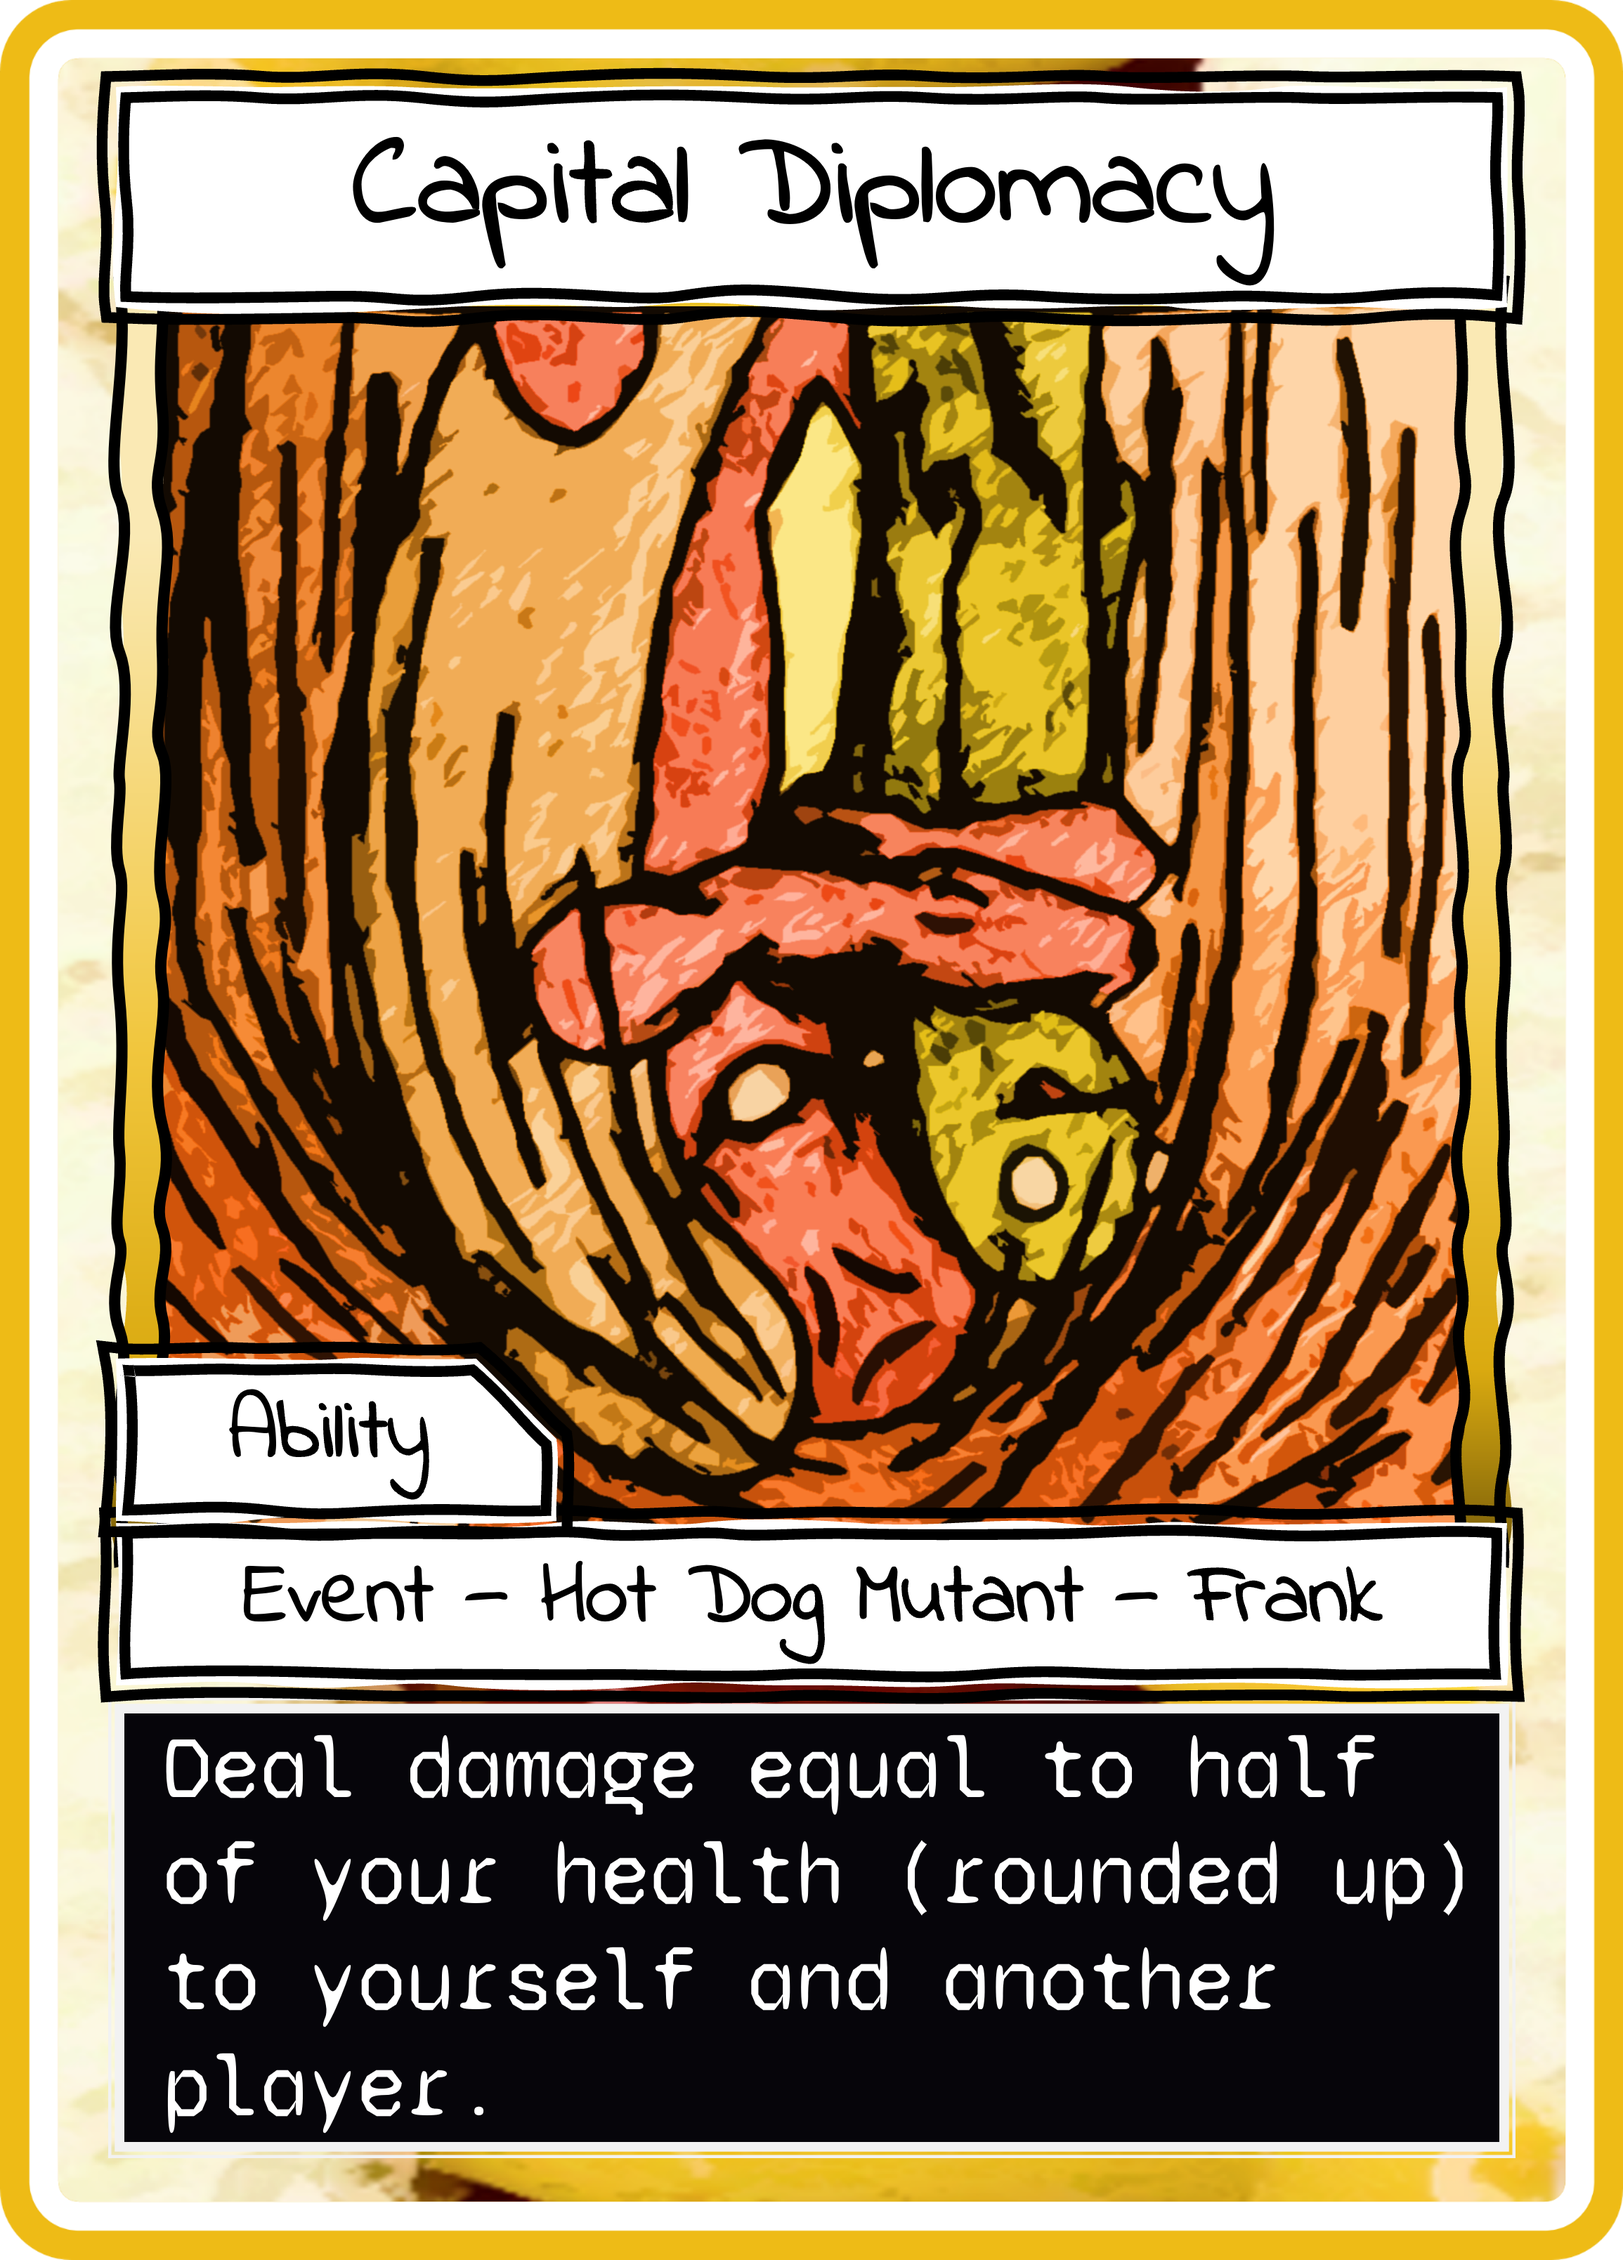
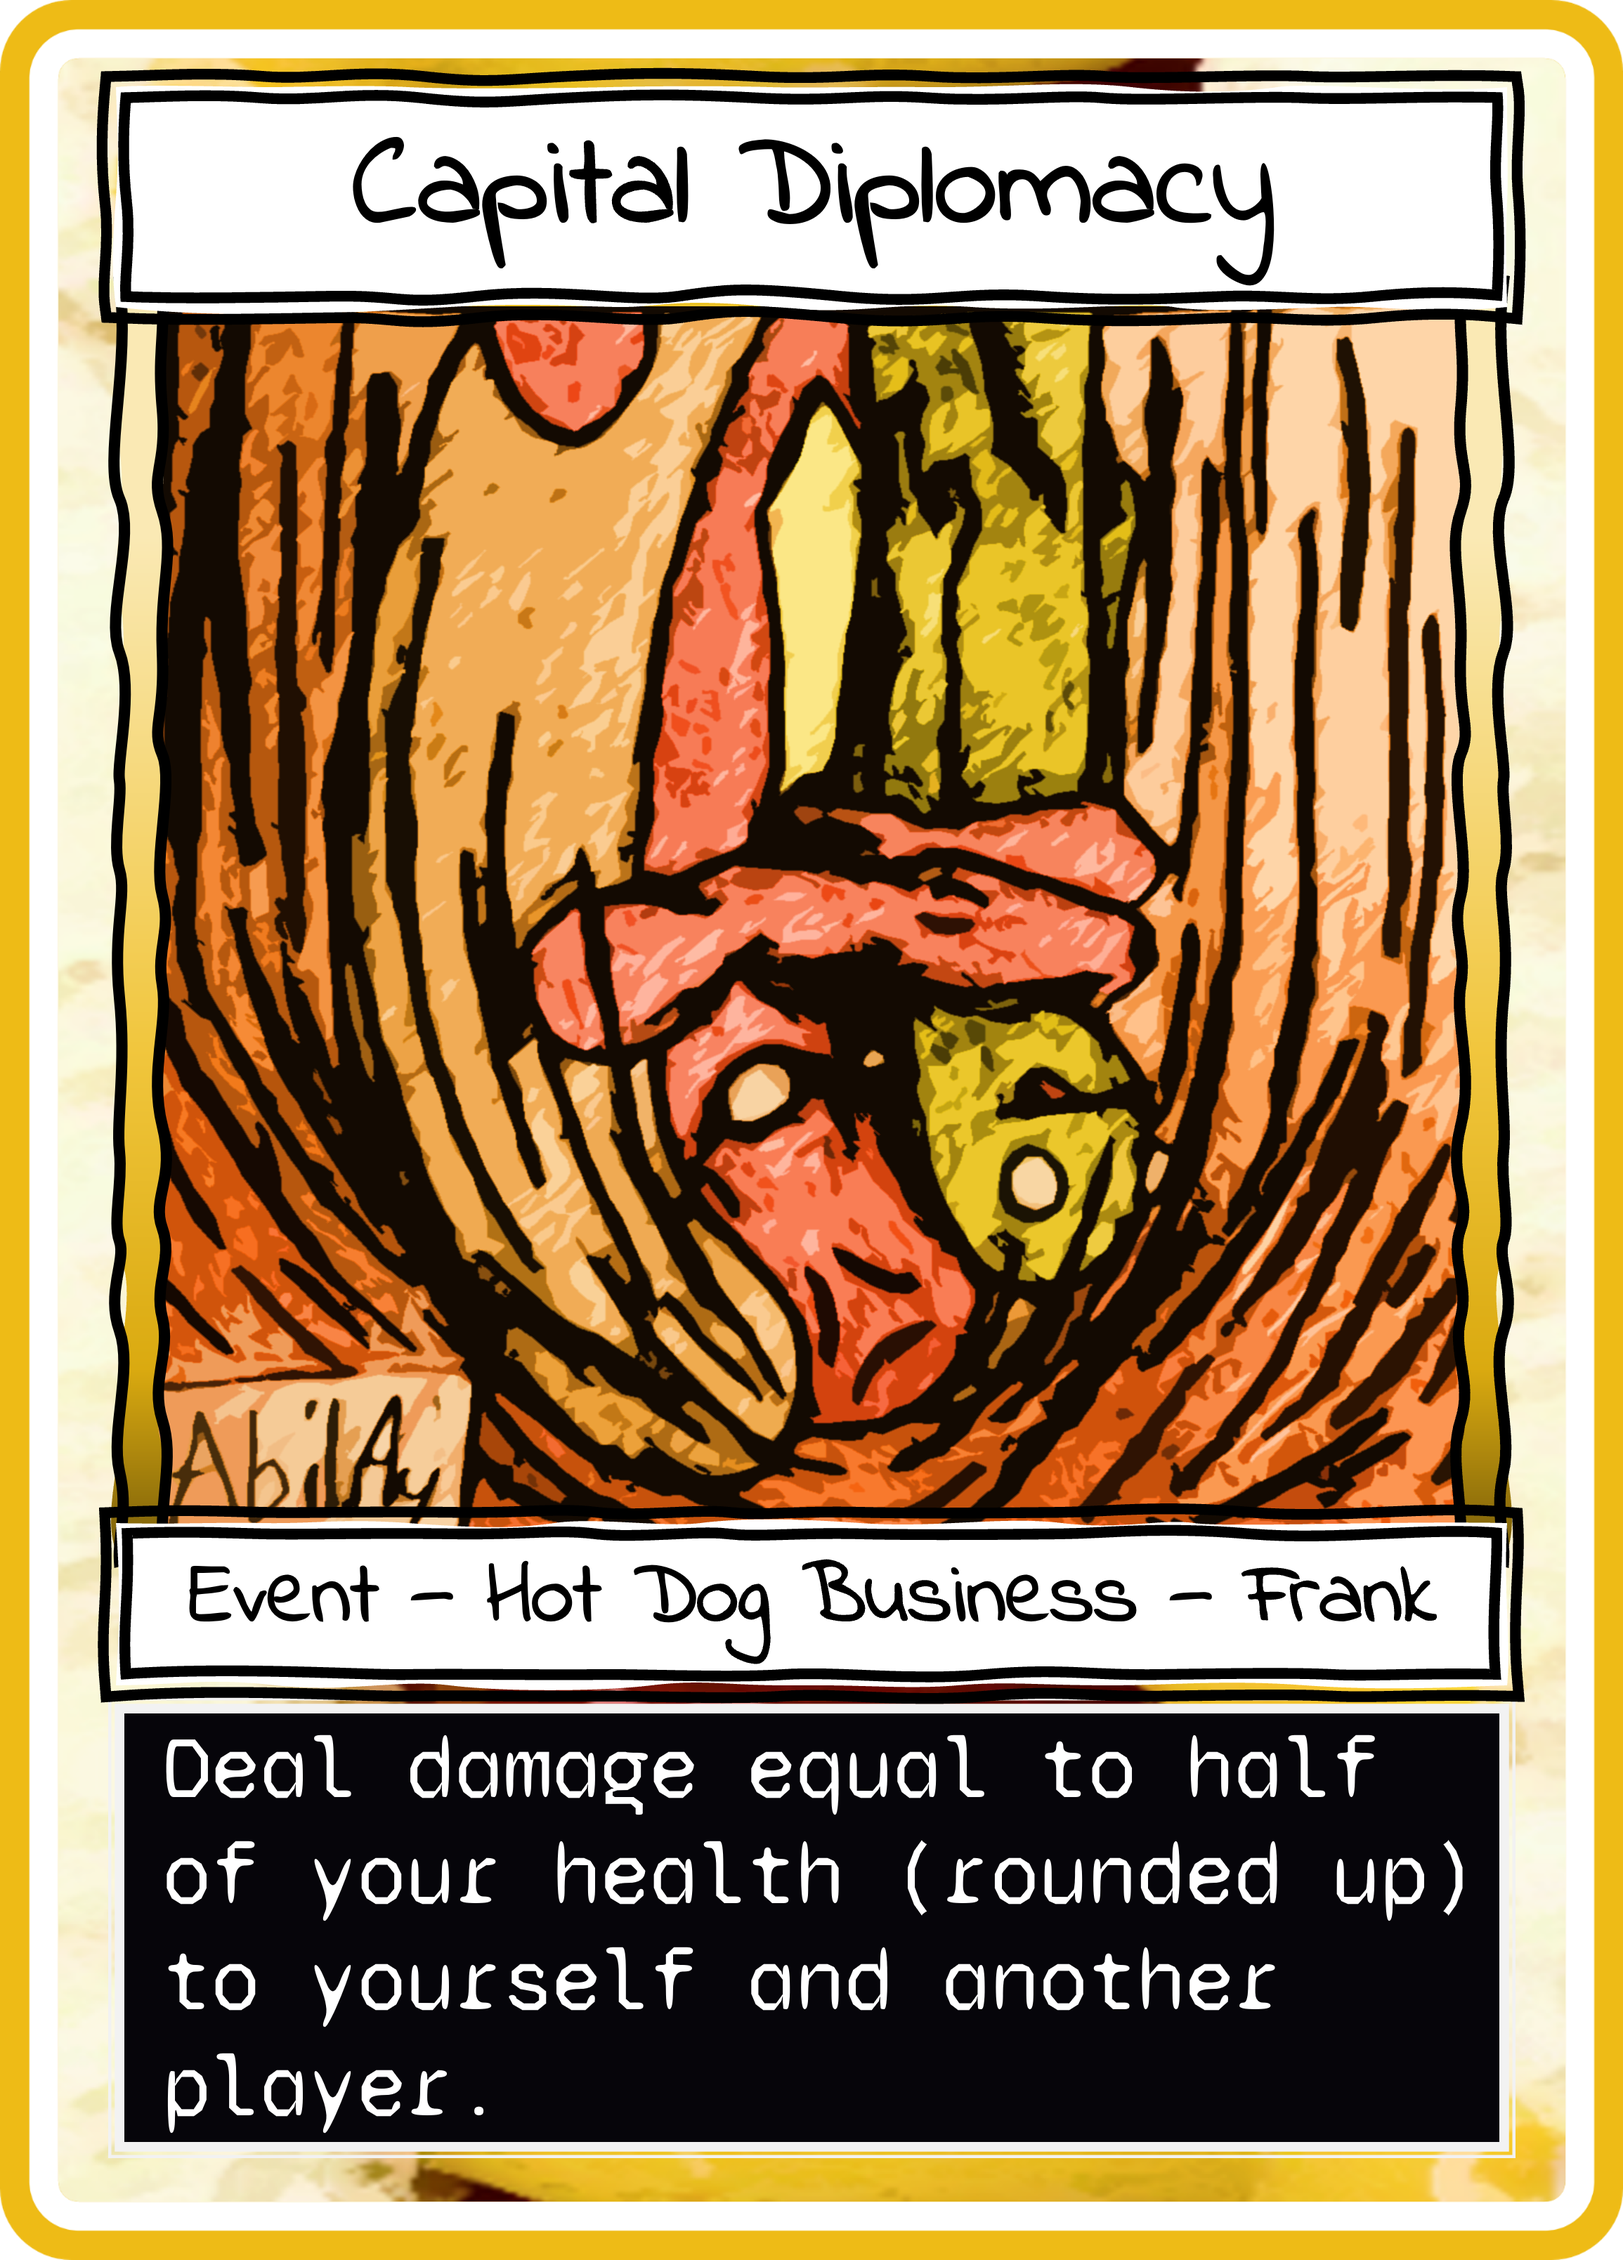
Sudden Death 0.0.4c: Ability Reduction

Changed region(s): [[0.0623, 0.5906, 0.8727, 0.746]]

diff --git a/cardList.js b/cardList.js
@@ -4,13 +4,10 @@ const cardList = new Array(
   ["abnormal_trick", "Abnormal Trick", "Eye Horror", "Momokashi"],
   ["agony_manifestation", "Agony Manifestation", "Blood Curse", "Ichor"],
   ["bomber_games", "Bomber Games", "Bomb", "Moneybags"],
-  ["capital_diplomacy", "Capital Diplomacy", "Hot Dog Mutant", "Frank"],
-  ["carrot_code", "Carrot Code", "Carrot Mutant", "Vitaminh"],
   ["danse_macabre", "Danse Macabre", "Blood Horror", "Hitzel"],
   ["death_bloom", "Death Bloom", "Flower Curse", "Helen"],
   ["desire_fire", "Desire Fire", "Spirit", "Vivian"],
   ["devil_slayer", "Devil Slayer", "Horror Killer", "Zormaku"],
-  ["dynamite_disco_deal", "Dynamite Disco Deal", "Business", "Egao"],
   ["eye_of_principal", "Eye of Principal", "Mental", "Deimos"],
   ["futuristic_imagination", "Futuristic Imagination", "Temporal", "Chrona"],
   ["gamblers_paradox", "Gambler's Paradox", "Shambler Curse", "Nyx"],
@@ -55,6 +52,7 @@ const cardList = new Array(
   ["bounty_hunter", "Bounty Hunter", "Aquatic Killer", "Ximing"],
   ["broccoli_benediction", "Broccoli Benediction", "Broccoli Ritual", ""],
   ["candy_tower", "Candy Tower", "Candy", ""],
+  ["capital_diplomacy", "Capital Diplomacy", "Hot Dog Business", "Frank"],
   ["carolina_reaper", "Carolina Reaper", "Pepper", ""],
   ["carrion_delivery", "Carrion Delivery", "Bird Horror", ""],
   ["carrot_juice_vendor", "Carrot Juice Vendor", "Carrot Business", "Vitaminh"],
@@ -73,6 +71,7 @@ const cardList = new Array(
   ["double_up", "Double Up", "Human Horror", ""],
   ["dragons_breath", "Dragon's Breath", "Pepper", ""],
   ["drunken_wish", "Drunken Wish", "Drug Spirit", "Woozy"],
+  ["dynamite_disco_deal", "Dynamite Disco Deal", "Business", "Mr. Egao"],
   ["eavesdrop", "Eavesdrop", "Ear Horror", "Cochlea"],
   ["electric_public", "Electric Public", "Broadcast", "Glifa"],
   ["electroball", "Electroball", "Police", ""],
@@ -124,19 +123,18 @@ const cardList = new Array(
   ["oak_imprisonment", "Oak Imprisonment", "Ritual", ""],
   ["occult_shop", "Occult Shop", "Ritual Business", ""],
   ["one_in_a_million_invitation", "One in a Million Invitation", "Mutant Killer", "Eco"],
-  ["one_two", "One-Two", "Hot Dog Mutant", "Frank"],
+  ["one_two", "One-Two", "Hot Dog Business", "Frank"],
   ["paradise", "Paradise", "Dream", ""],
   ["party_addict", "Party Addict", "Drug", "Wade"],
   ["peeping_on_tom", "Peeping on Tom", "Eye Horror", "Tom"],
   ["peeping_tom", "Peeping Tom", "Eye Horror", "Tom"],
   ["pepper_x", "Pepper X", "Pepper", "Pepper X"],
-  ["philanthropy", "Philanthropy", "Business", "Egao"],
+  ["philanthropy", "Philanthropy", "Business", "Mr. Egao"],
   ["pickle_beam", "Pickle Beam", "Pickle Mutant", "Geevil"],
   ["pink_pink_playtime", "Pink Pink Playtime", "Mascot Killer", "Pinky"],
   ["placebo", "Placebo", "Psychologic Tribe Drug", ""],
   ["plutocrats_cough", "Plutocrat's Cough", "Business Curse", ""],
   ["poblano", "Poblano", "Pepper", ""],
-  ["poltergeist", "Poltergeist", "Spirit", "Wisp"],
   ["psychologic_tribe", "Psychologic Tribe", "Psychologic Tribe", ""],
   ["psychotic_mind_coffin", "Psychotic Mind Coffin", "Mental Horror", "???"],
   ["purgation_parade", "Purgation Parade", "Spirit", "Plague"],
@@ -213,13 +211,10 @@ const cardList = new Array(
   ["mutated_agony_manifestation", "Mutated Agony Manifestation", "Blood Curse", "Nyx"],
   ["mutated_body_prison", "Mutated Body Prison", "Police", "Nyx"],
   ["mutated_bomber_games", "Mutated Bomber Games", "Bomb", "Nyx"],
-  ["mutated_capital_diplomacy", "Mutated Capital Diplomacy", "Hot Dog Mutant", "Nyx"],
-  ["mutated_carrot_code", "Mutated Carrot Code", "Carrot Mutant", "Nyx"],
   ["mutated_danse_macabre", "Mutated Danse Macabre", "Blood Horror", "Nyx"],
   ["mutated_death_bloom", "Mutated Death Bloom", "Flower Curse", "Nyx"],
   ["mutated_desire_fire", "Mutated Desire Fire", "Spirit", "Nyx"],
   ["mutated_devil_slayer", "Mutated Devil Slayer", "Horror Killer", "Nyx"],
-  ["mutated_dynamite_disco_deal", "Mutated Dynamite Disco Deal", "Business", "Nyx"],
   ["mutated_eye_of_principal", "Mutated Eye of Principal", "Mental", "Nyx"],
   ["mutated_futuristic_imagination", "Mutated Futuristic Imagination", "Temporal", "Nyx"],
   ["mutated_harbinger_sense", "Mutated Harbinger Sense", "Curse", "Nyx"],
